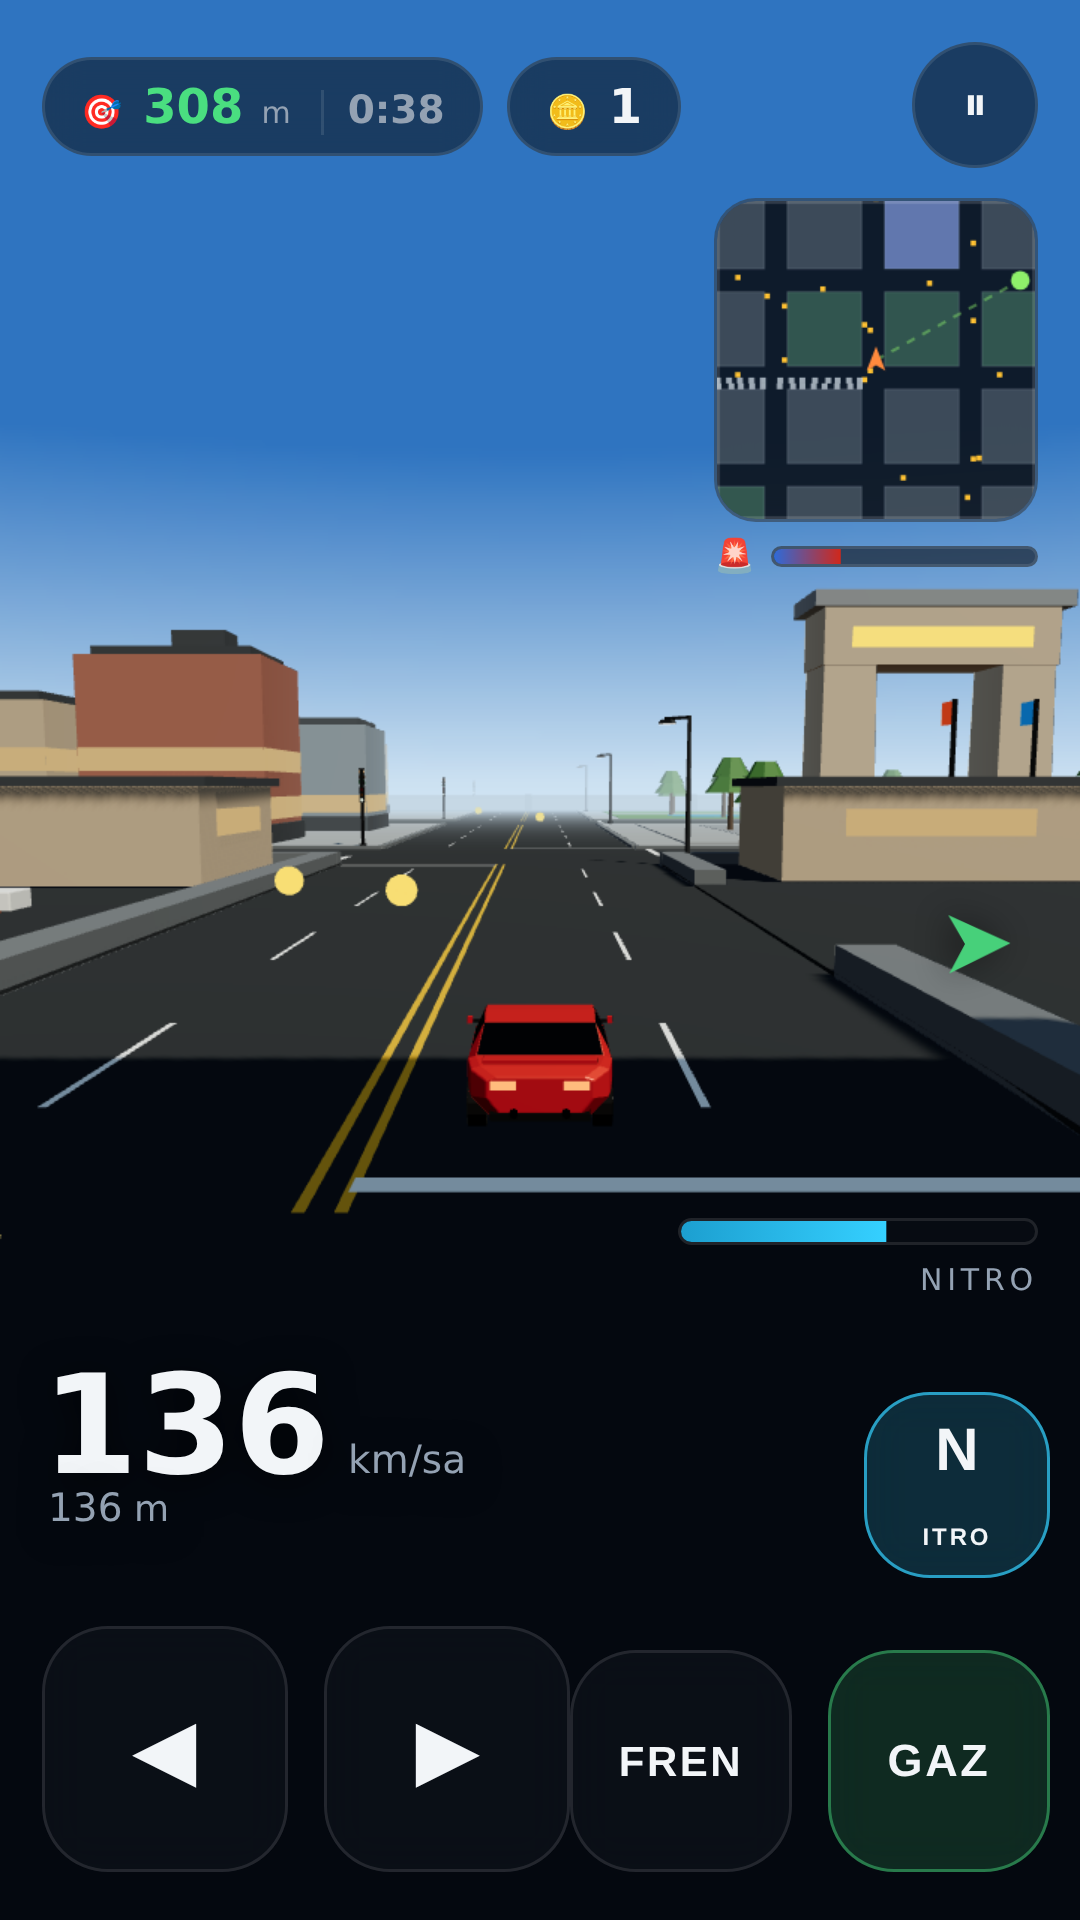
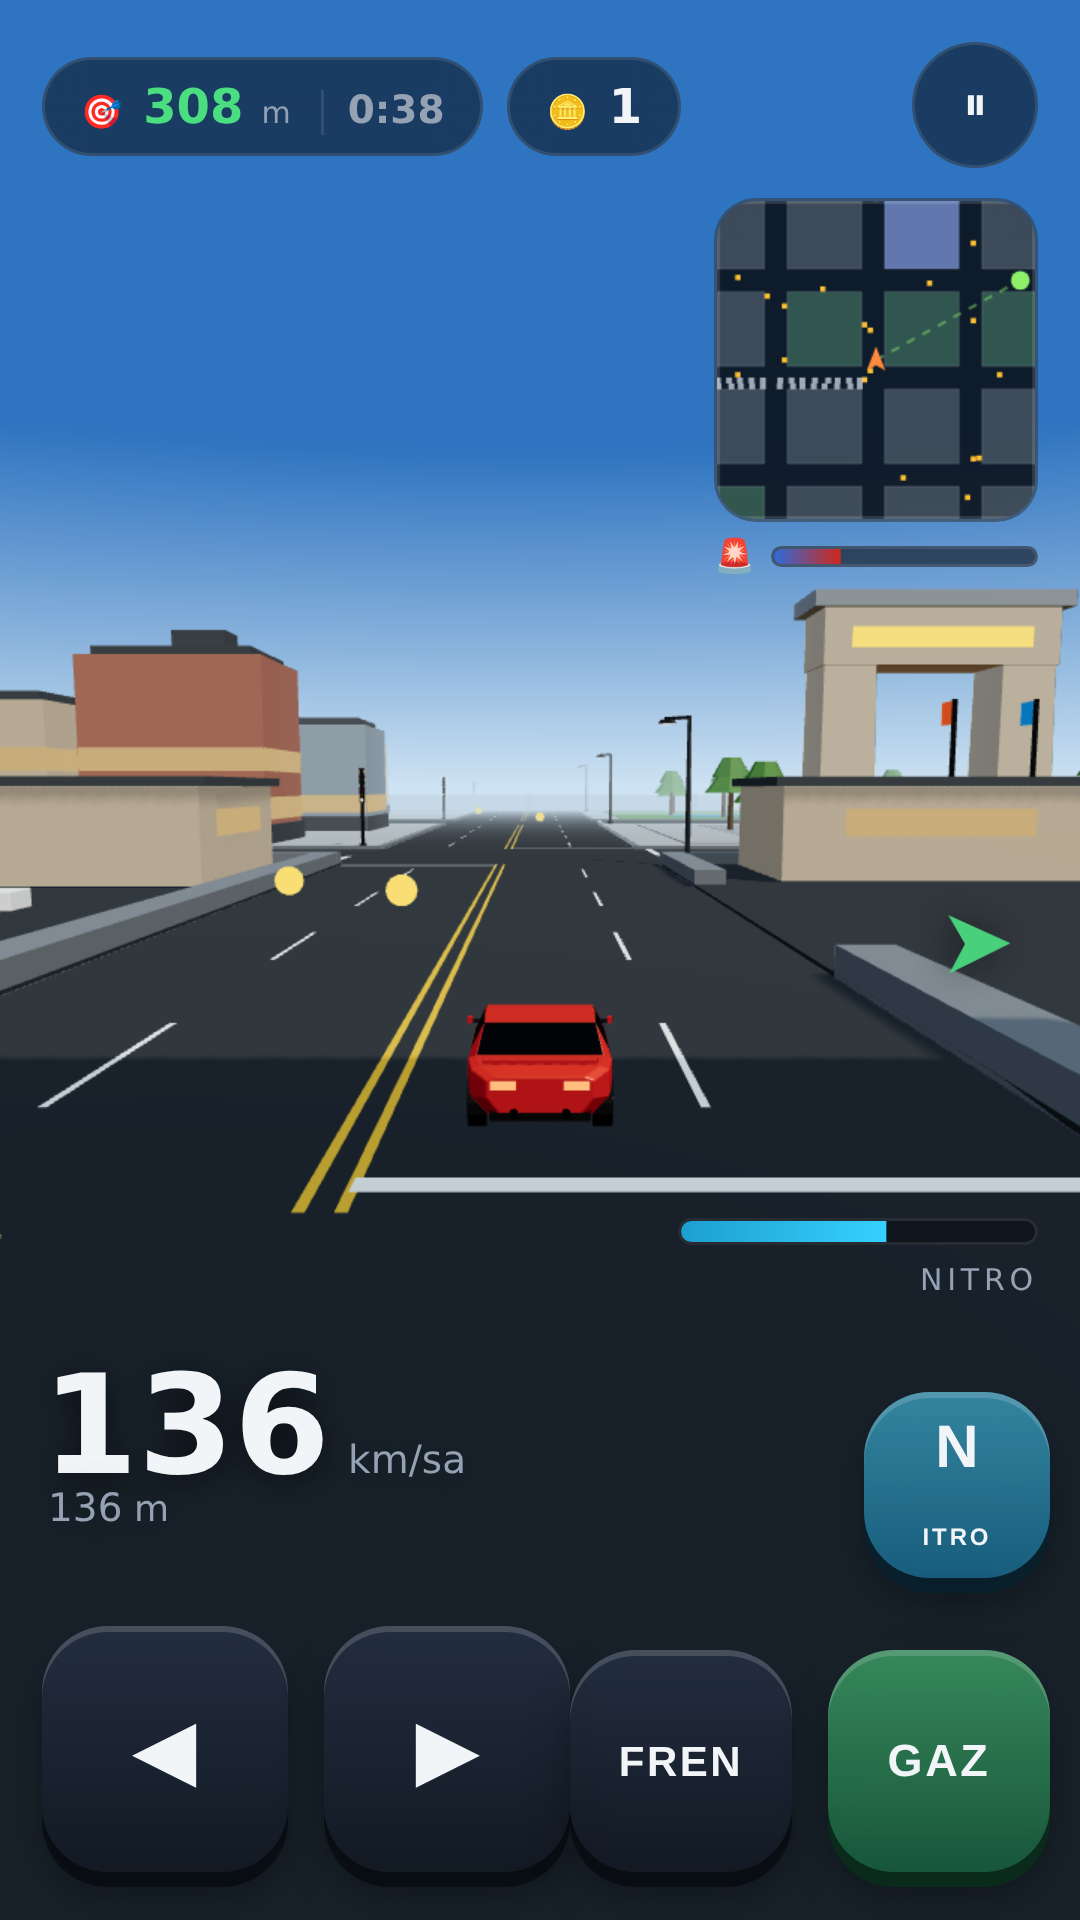
Put the car in the garage, and stop shadows swallowing the road
The garage sold cars while showing a coloured square. The camera now orbits
the selected car slowly and the panel sits at the bottom of the screen with
the car above it. It is the real car in the real scene, so a part fitted or a
colour picked shows up the moment it is bought, and a showroom lamp follows
the camera so you can still see what you are buying at night. The controls
got the same lip the menu plates have -- they stay translucent, because a
pad you cannot see through is a pad in the way at a junction.

Then the screenshots turned up something worse. In daylight the road ahead of
the car was a flat black slab with the lane markings gone, ending at a hard
line across the screen. Three wrong guesses in: it was not shadow acne, not
the shadow camera's depth range, and not the shadow bias. Reading the pixel
back and hiding one object at a time found it: the ground was genuinely in
the shadow of a 50 m tower, and shadowed asphalt was rendering at a twentieth
of the brightness of lit asphalt.

That ratio is the bug. A tower casts a 40 m shadow across an 18 m street, so
a good part of the city is lit by sky alone at any moment, and the sky was
putting almost nothing on it. Sun and ambient are rebalanced for all three
times of day, and the shadow itself now lets some sun through, so shade sits
at about 40% of full sun instead of 5%. Measured on the same pixel: 27 before,
99 after, against 248 in the sun.

Two smaller things fell out of the same hunt:
[…]

diff --git a/game/css/style.css b/game/css/style.css
@@ -338,31 +338,49 @@ html, body {
 .control-cluster--right { flex-direction: column; align-items: flex-end; }
 .control-row { display: flex; gap: 12px; }
 
+/* Controls press like the menu plates -- lip under the front face, travel
+   down on to it -- but stay translucent: they sit on top of the road, and an
+   opaque pad is a pad you cannot see through at a junction. */
 .control {
   --size: 74px;
+  --lip: rgba(4, 7, 12, 0.62);
   width: var(--size);
   height: var(--size);
   border-radius: 22px;
-  border: 1px solid var(--panel-edge);
-  background: rgba(14, 19, 27, 0.62);
+  border: 0;
+  background: linear-gradient(180deg,
+              rgba(40, 51, 72, 0.70), rgba(17, 23, 34, 0.72));
   backdrop-filter: blur(8px);
   color: var(--ink);
   font-size: 22px;
   font-weight: 700;
   display: grid;
   place-items: center;
-  transition: transform 90ms ease, background 90ms ease;
+  box-shadow:
+    inset 0 2px 0 rgba(255, 255, 255, 0.16),
+    0 5px 0 var(--lip),
+    0 8px 14px rgba(0, 0, 0, 0.34);
+  transition: transform 90ms ease, background 90ms ease, box-shadow 90ms ease;
 }
-.control.is-active { transform: scale(0.94); background: rgba(255, 255, 255, 0.16); }
+.control.is-active {
+  transform: translateY(3px);
+  background: linear-gradient(180deg,
+              rgba(78, 96, 130, 0.78), rgba(38, 49, 70, 0.78));
+  box-shadow:
+    inset 0 2px 0 rgba(255, 255, 255, 0.16),
+    0 2px 0 var(--lip),
+    0 3px 8px rgba(0, 0, 0, 0.34);
+}
 .control.is-hidden { display: none; }
 
 .control--steer { --size: 82px; font-size: 26px; }
 .control--brake { font-size: 14px; letter-spacing: 0.06em; }
 .control--gas {
+  --lip: rgba(8, 48, 26, 0.75);
   font-size: 15px;
   letter-spacing: 0.06em;
-  background: rgba(74, 222, 128, 0.16);
-  border-color: rgba(74, 222, 128, 0.45);
+  background: linear-gradient(180deg,
+              rgba(74, 200, 122, 0.62), rgba(24, 112, 66, 0.68));
 }
 .control--nitro {
   --size: 62px;
@@ -371,17 +389,21 @@ html, body {
   line-height: 1;
   flex-direction: column;
   opacity: 0.45;
-  border-color: rgba(53, 208, 255, 0.35);
+  --lip: rgba(6, 34, 48, 0.72);
 }
 .control--nitro small { font-size: 8px; letter-spacing: 0.12em; }
 .control--nitro.is-ready {
   opacity: 1;
-  background: rgba(53, 208, 255, 0.18);
-  border-color: rgba(53, 208, 255, 0.7);
+  background: linear-gradient(180deg,
+              rgba(69, 195, 232, 0.62), rgba(24, 118, 160, 0.7));
 }
 .control--nitro.is-firing {
-  background: rgba(53, 208, 255, 0.45);
-  box-shadow: 0 0 22px rgba(53, 208, 255, 0.55);
+  background: linear-gradient(180deg,
+              rgba(120, 225, 255, 0.85), rgba(40, 160, 210, 0.9));
+  box-shadow:
+    inset 0 2px 0 rgba(255, 255, 255, 0.30),
+    0 5px 0 var(--lip),
+    0 0 24px rgba(53, 208, 255, 0.55);
 }
 
 /* ------------------------------------------------------------- screens --- */
@@ -420,9 +442,23 @@ html, body {
  * capped and the middle scrolls -- that keeps the header and the back button
  * on screen even on a short phone.
  */
+/* The garage panel sits at the bottom and stops well short of the top, so
+   the turntable behind it has the car in view while you shop. The screen's
+   usual scrim and blur come off here for the same reason -- they are there to
+   push a background away, and this background is the thing being sold. */
+#screen-garage {
+  align-items: end;
+  background: linear-gradient(180deg,
+    rgba(6, 8, 12, 0.28) 0%, rgba(6, 8, 12, 0.62) 100%);
+  backdrop-filter: none;
+}
 #screen-garage .panel {
-  max-height: calc(100dvh - 2 * var(--pad-top));
+  max-height: min(60dvh, calc(100dvh - 2 * var(--pad-top)));
   min-height: 0;
+  background: linear-gradient(180deg,
+    rgba(13, 17, 23, 0.72) 0%,
+    rgba(13, 17, 23, 0.94) 14%,
+    rgba(13, 17, 23, 0.96) 100%);
 }
 .garage-scroll {
   display: flex;

diff --git a/game/js/city.js b/game/js/city.js
@@ -1033,6 +1033,7 @@ export class CitySession {
 
   /** Slow orbit for the menu backdrop. */
   poseForMenu(dt, camera, baseFov) {
+    if (this.showroom) this.showroom.visible = false;
     this.menuAngle += dt * 0.14;
     const radius = 11.6;
     camera.position.set(
@@ -1047,6 +1048,55 @@ export class CitySession {
   }
 
   /** Park the car somewhere photogenic for the menu. */
+  /**
+   * Turntable for the garage: a close, slow orbit of the selected car.
+   *
+   * The garage sells cars and paint while showing a coloured square, which is
+   * a poor way to decide. The car is already in the scene, so the camera just
+   * moves in on it -- and because it is the real car, a part fitted or a
+   * colour picked shows up the moment it is bought.
+   *
+   * The aim point sits below the car so it rides high in frame, clear of the
+   * panel that covers the bottom of the screen.
+   */
+  poseForGarage(dt, camera, baseFov) {
+    this.garageAngle = (this.garageAngle || 0) + dt * 0.35;
+    const radius = 9.2;
+    camera.position.set(
+      this.car.x + Math.sin(this.garageAngle) * radius,
+      2.8,
+      this.car.z + Math.cos(this.garageAngle) * radius);
+    // Aiming below the car lifts it into the top of the frame, clear of the
+    // panel; aiming at it would put half the car behind the shopping list.
+    camera.lookAt(this.car.x, -2.2, this.car.z);
+    this.showroomLight(true, camera);
+    if (Math.abs(camera.fov - baseFov) > 0.05) {
+      camera.fov += (baseFov - camera.fov) * 0.1;
+      camera.updateProjectionMatrix();
+    }
+  }
+
+  /**
+   * A showroom lamp over the turntable.
+   *
+   * The city's own lighting is whatever time of day it is, and at night the
+   * car you are being asked to spend money on is a dark shape. This is one
+   * light that follows the camera, on only while the garage is open.
+   */
+  showroomLight(on, camera) {
+    if (!this.showroom) {
+      this.showroom = new THREE.DirectionalLight(0xfff2dc, 2.1);
+      this.showroom.target = new THREE.Object3D();
+      this.scene.add(this.showroom);
+      this.scene.add(this.showroom.target);
+    }
+    this.showroom.visible = on;
+    if (!on || !camera) return;
+    this.showroom.position.set(camera.position.x, camera.position.y + 5.5,
+                               camera.position.z);
+    this.showroom.target.position.set(this.car.x, 0, this.car.z);
+  }
+
   poseCar(carSpec) {
     this.car.setCar(carSpec);
     this.car.setHeadlights(this.nightlights);

diff --git a/game/js/environment.js b/game/js/environment.js
@@ -12,16 +12,22 @@
 import * as THREE from 'three';
 
 export const TIME_OF_DAY = {
+  // The sun-to-ambient ratio matters more than either number on its own: a
+  // 50 m tower casts a 40 m shadow across the street, so whatever the sky
+  // alone puts on the ground is what a good part of the city is lit by. At
+  // the ratio these carried before, shadowed asphalt came out at a twentieth
+  // of the brightness of lit asphalt -- a black hole with a hard edge where
+  // the tower's shadow ended. Shade now sits at about 40% of full sun.
   dusk: {
     top: '#1d2b52', horizon: '#f0a35e', ground: '#6b5340',
-    sun: '#ffb066', sunIntensity: 2.9,
-    hemiSky: '#ffd9a8', hemiGround: '#6b5340', hemiIntensity: 1.25,
+    sun: '#ffb066', sunIntensity: 2.5,
+    hemiSky: '#ffd9a8', hemiGround: '#6b5340', hemiIntensity: 2.0,
     fogNear: 60, fogFar: 280,
   },
   day: {
     top: '#2f74c0', horizon: '#cfe3f2', ground: '#7d6647',
-    sun: '#fff3d8', sunIntensity: 2.6,
-    hemiSky: '#bcd8f0', hemiGround: '#7d6647', hemiIntensity: 1.0,
+    sun: '#fff3d8', sunIntensity: 2.3,
+    hemiSky: '#bcd8f0', hemiGround: '#7d6647', hemiIntensity: 2.2,
     fogNear: 75, fogFar: 280,
   },
   // Night leans on the emissive materials that are already in the models --
@@ -29,8 +35,8 @@ export const TIME_OF_DAY = {
   // the "sun" is a dim cool moon that only shapes the silhouettes.
   night: {
     top: '#050912', horizon: '#16233d', ground: '#0b0e15',
-    sun: '#8fa6dd', sunIntensity: 0.62,
-    hemiSky: '#33436c', hemiGround: '#15191f', hemiIntensity: 0.78,
+    sun: '#8fa6dd', sunIntensity: 0.60,
+    hemiSky: '#33436c', hemiGround: '#15191f', hemiIntensity: 1.00,
     fogNear: 40, fogFar: 210,
     headlights: true,
   },
@@ -93,6 +99,9 @@ export function applyLights(scene, settings, shadows) {
   sun.shadow.camera.bottom = -shadows.extent;
   sun.shadow.bias = -0.0012;
   sun.shadow.normalBias = 0.04;
+  // Let some sun through the shadow. A tower's shadow that takes all of it
+  // reads as a hole in the road rather than as shade.
+  if ('intensity' in sun.shadow) sun.shadow.intensity = 0.72;
 
   const hemi = new THREE.HemisphereLight(new THREE.Color(settings.hemiSky),
                                          new THREE.Color(settings.hemiGround),

diff --git a/game/js/main.js b/game/js/main.js
@@ -143,7 +143,10 @@ class Game {
     this.renderer.shadowMap.type = THREE.PCFSoftShadowMap;
     this.setShadows(save.get().settings.shadows !== false);
 
-    this.camera = new THREE.PerspectiveCamera(CAMERA.fovPortrait, 1, 0.5, 1800);
+    // near 0.5 against far 1800 is a 3600:1 depth range, which is thin enough
+    // for large coplanar surfaces to flicker against each other. Nothing ever
+    // gets closer than the chase camera's 8 m, so 1.2 costs nothing.
+    this.camera = new THREE.PerspectiveCamera(CAMERA.fovPortrait, 1, 1.2, 1800);
     this.camera.position.set(0, CAMERA.height, CAMERA.distance);
     this.resize();
   }
@@ -352,7 +355,9 @@ class Game {
 
     if (this.state === 'playing') this.update(dt);
     else if (this.state === 'over') this.updateAfterCrash(dt);
-    else this.session.poseForMenu(dt, this.camera, this.baseFov);
+    else if (this.hud.current === 'garage' && this.session.poseForGarage) {
+      this.session.poseForGarage(dt, this.camera, this.baseFov);
+    } else this.session.poseForMenu(dt, this.camera, this.baseFov);
 
     this.renderer.render(this.session.scene, this.camera);
   }

diff --git a/game/sw.js b/game/sw.js
@@ -6,7 +6,7 @@
  * of leaving players on a stale mix of new code and old models.
  */
 
-const CACHE = 'dortyol-0f33be1463d3';
+const CACHE = 'dortyol-b71c25efdc21';
 const ASSETS = [
   "./",
   "assets/icon-192.png",

diff --git a/blender/lib/city.py b/blender/lib/city.py
@@ -550,8 +550,16 @@ def build_block_industrial(P):
 
 
 def build_desert_floor(P):
-    """Sand the city sits on, so the edge of the map is not a void."""
-    return kit.box('DesertFloor', (1400.0, 1400.0, 0.30), (0, 0, -0.40),
+    """
+    Sand the city sits on, so the edge of the map is not a void.
+
+    It sits well below the road rather than just under it. At 1400 m across
+    and a 1 cm gap -- which is what this used to have -- the two surfaces
+    z-fight, and the sand wins the near half of the screen: the road ahead of
+    the car turns into a flat dark slab with the lane markings gone. The city
+    wall is 3 m tall and hides the step at the map edge.
+    """
+    return kit.box('DesertFloor', (1400.0, 1400.0, 0.30), (0, 0, -1.50),
                    P['Sand'])
 
 

diff --git a/README.md b/README.md
@@ -172,6 +172,21 @@ yerine altı `emissiveIntensity` yazmasıdır.
 geçerli bir şeridine denk gelir; bu yüzden binalara girmeleri için ayrıca
 çarpışma testi gerekmez.
 
+**Garajda araba canlı duruyor.** Garaj ekranı arabayı satarken renkli bir
+kare gösteriyordu; artık kamera seçili arabanın etrafında yavaşça dönüyor ve
+panel ekranın altına oturuyor. Gerçek araba olduğu için taktığın parça ya da
+seçtiğin renk aldığın anda görünüyor. Gece de alışveriş yapılabilsin diye
+tornistanın üstünde kameraya bağlı tek bir vitrin lambası var — sadece garaj
+açıkken yanıyor.
+
+**Güneş/gökyüzü dengesi.** 50 metrelik bir kule sokağa 40 metrelik gölge
+düşürüyor, yani şehrin epey bir kısmını aydınlatan şey yalnızca gökyüzü.
+Önceki dengede gölgedeki asfalt, güneş gören asfaltın **yirmide biri**
+parlaklıktaydı: yolun ortasında keskin kenarlı bir kara delik gibi
+duruyordu. Artık gölge, tam güneşin yaklaşık **%40'ı** — gölge gibi okunuyor,
+boşluk gibi değil. Gölgenin kendisi de güneşin bir kısmını geçiriyor
+(`shadow.intensity`).
+
 **Gölgeler dar bir kutuyla çalışıyor.** Gölge kamerası arabayı takip eden
 124 m'lik bir kutu, yani 1024 piksel gerçekten bulunduğun sokağa düşer.
 Maliyeti ~25 çizim çağrısı.
